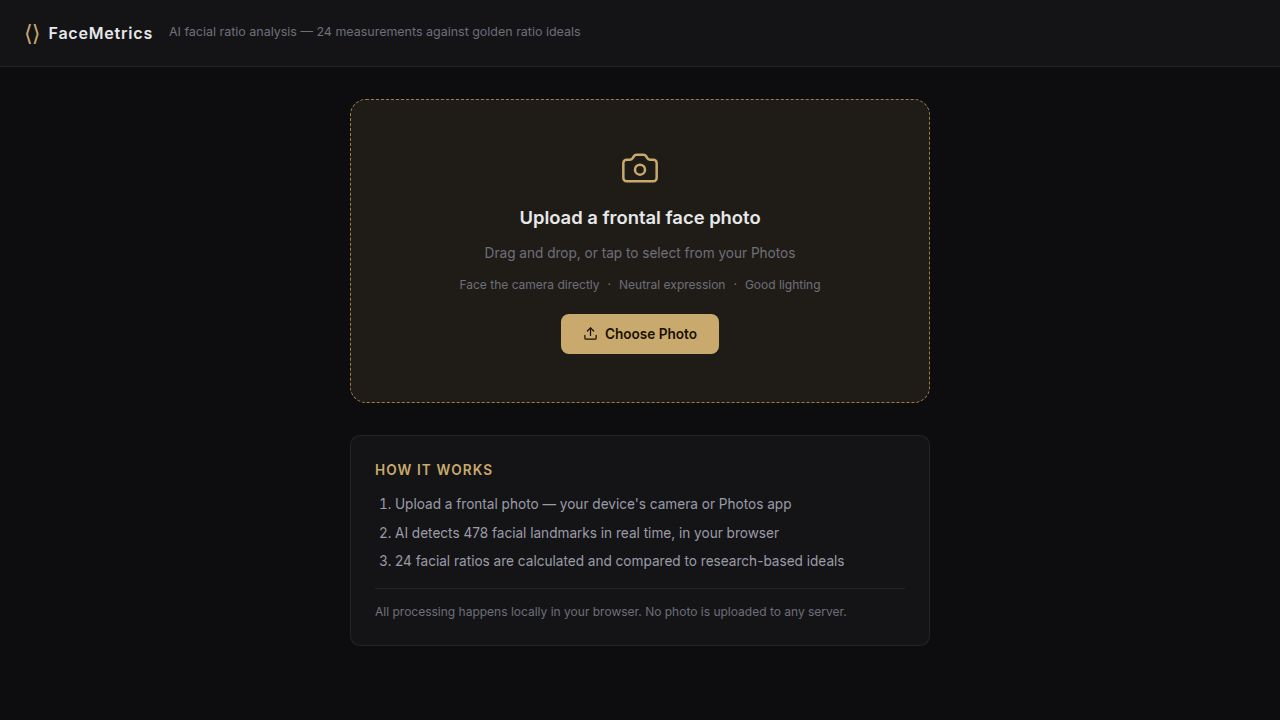
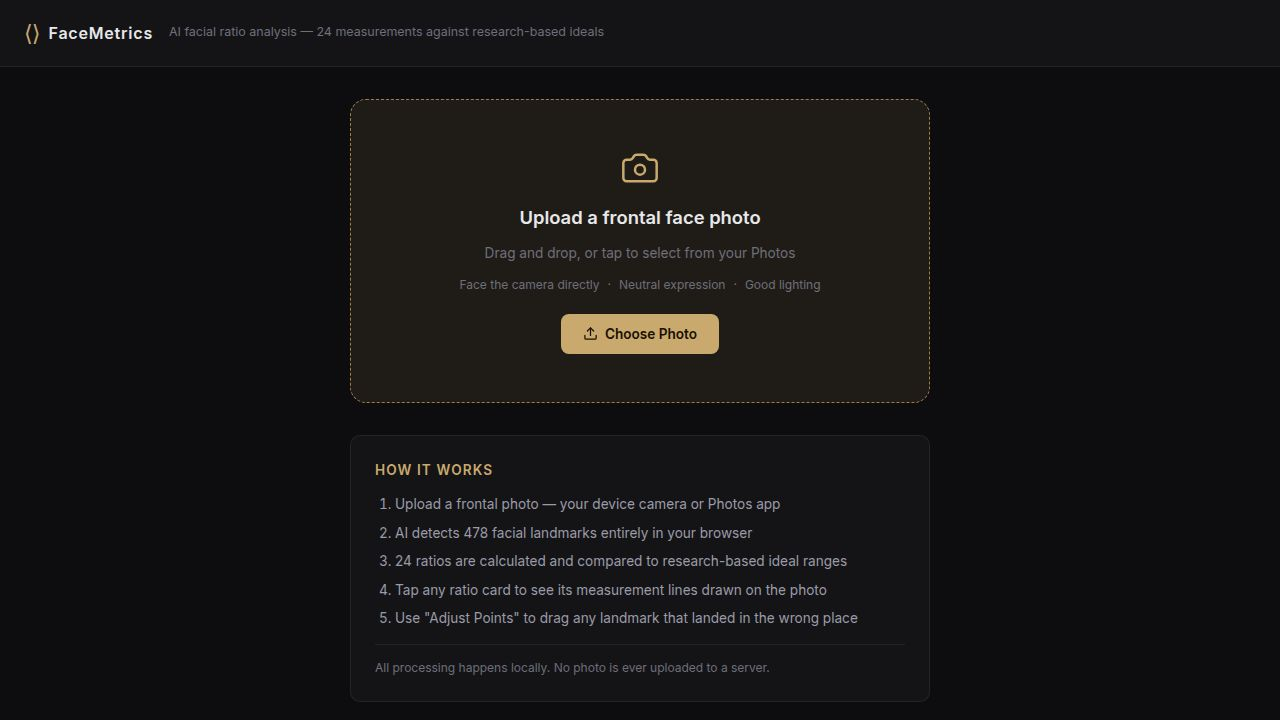
Adjust face measurements to include jaw apex and refine ideal ranges
Adds `jaw_apex` key point and updates JFA and forehead length ideal ranges in `ratios.ts` and `measurementDiagram.ts`.

Replit-Commit-Author: Agent
Replit-Commit-Session-Id: cd740ed2-29c9-4a36-8f7f-19e90068cc69
Replit-Commit-Checkpoint-Type: full_checkpoint
Replit-Commit-Event-Id: 606d166d-a7f3-4d46-8b21-401518e19d16
Replit-Commit-Screenshot-Url: https://storage.googleapis.com/screenshot-production-us-central1/3fed4bd6-ff50-4953-bd9f-591872a6b430/cd740ed2-29c9-4a36-8f7f-19e90068cc69/42fbuJN
Replit-Helium-Checkpoint-Created: true

Changed region(s): [[0.2812, 0.6722, 0.6562, 0.8861], [0.2812, 0.9167, 0.5938, 0.9472], [0.375, 0.0306, 0.4688, 0.0611]]

diff --git a/artifacts/face-ratio/src/lib/ratios.ts b/artifacts/face-ratio/src/lib/ratios.ts
@@ -49,7 +49,7 @@ export function computeRatios(kp: KeyPointPositions): RatioResult[] {
     ear_r, ear_l,
     zygo_r, zygo_l,
     gonia_r, gonia_l,
-    chin,
+    chin, jaw_apex,
     r_eye_lat, r_eye_med, l_eye_lat, l_eye_med,
     r_eye_top, r_eye_bot, l_eye_top, l_eye_bot,
     r_pupil, l_pupil,
@@ -124,13 +124,13 @@ export function computeRatios(kp: KeyPointPositions): RatioResult[] {
   const emeVal    = Math.atan2(vertMouth, halfIPD) * (180 / Math.PI);
   const emeIdeal  = { min: 45, max: 49 };
 
-  // 8. JFA
-  const jfaV1x = gonia_r.x - chin.x;
-  const jfaV1y = gonia_r.y - chin.y;
-  const jfaV2x = gonia_l.x - chin.x;
-  const jfaV2y = gonia_l.y - chin.y;
+  // 8. JFA — angle at jaw_apex (below chin) between lines from each gonion
+  const jfaV1x = gonia_r.x - jaw_apex.x;
+  const jfaV1y = gonia_r.y - jaw_apex.y;
+  const jfaV2x = gonia_l.x - jaw_apex.x;
+  const jfaV2y = gonia_l.y - jaw_apex.y;
   const jfaVal   = angleBetweenVectors(jfaV1x, jfaV1y, jfaV2x, jfaV2y);
-  const jfaIdeal = { min: 85, max: 95 };
+  const jfaIdeal = { min: 88, max: 92 };
 
   // 9. Lower Full Face
   const lffVal   = (nasionToChin / totalFaceHeight) * 100;
@@ -208,9 +208,9 @@ export function computeRatios(kp: KeyPointPositions): RatioResult[] {
   const bitemporalVal   = (temporalWidth / bizygoWidth) * 100;
   const bitemporalIdeal = { min: 85, max: 95 };
 
-  // 24. Forehead Length
+  // 24. Forehead Length — ideal is ~2x as wide as long
   const foreheadLengthVal   = temporalWidth / hairlineToGlabella;
-  const foreheadLengthIdeal = { min: 0.45, max: 0.52 };
+  const foreheadLengthIdeal = { min: 1.85, max: 2.15 };
 
   const raw: Array<{
     key: string; name: string; abbr: string; value: number;

diff --git a/artifacts/face-ratio/src/lib/measurementDiagram.ts b/artifacts/face-ratio/src/lib/measurementDiagram.ts
@@ -127,14 +127,14 @@ export const DIAGRAMS: Record<string, RatioDiagram> = {
 
   jfa: {
     formulaParts: [
-      { text: "Angle at Chin Between Mandible Lines", role: "angle" },
+      { text: "Angle at Jaw Apex Between Mandible Lines", role: "angle" },
     ],
     lines: [
-      { from: "gonia_r", to: "chin", role: "numerator",   label: "R Mandible" },
-      { from: "gonia_l", to: "chin", role: "denominator", label: "L Mandible" },
+      { from: "gonia_r",  to: "jaw_apex", role: "numerator",   label: "R Mandible" },
+      { from: "gonia_l",  to: "jaw_apex", role: "denominator", label: "L Mandible" },
     ],
     angles: [
-      { vertex: "chin", arm1: "gonia_r", arm2: "gonia_l", label: "JFA" },
+      { vertex: "jaw_apex", arm1: "gonia_r", arm2: "gonia_l", label: "JFA" },
     ],
   },
 
@@ -226,12 +226,12 @@ export const DIAGRAMS: Record<string, RatioDiagram> = {
     lines: [
       { from: "subnasale", to: "r_eye_lat", role: "numerator",   label: "IAA arm" },
       { from: "subnasale", to: "l_eye_lat", role: "numerator",   label: "IAA arm" },
-      { from: "gonia_r",   to: "chin",      role: "denominator", label: "JFA arm" },
-      { from: "gonia_l",   to: "chin",      role: "denominator", label: "JFA arm" },
+      { from: "gonia_r",   to: "jaw_apex",  role: "denominator", label: "JFA arm" },
+      { from: "gonia_l",   to: "jaw_apex",  role: "denominator", label: "JFA arm" },
     ],
     angles: [
       { vertex: "subnasale", arm1: "r_eye_lat", arm2: "l_eye_lat", label: "IAA" },
-      { vertex: "chin",      arm1: "gonia_r",   arm2: "gonia_l",   label: "JFA" },
+      { vertex: "jaw_apex",  arm1: "gonia_r",   arm2: "gonia_l",   label: "JFA" },
     ],
   },
 

diff --git a/artifacts/face-ratio/src/lib/keyPoints.ts b/artifacts/face-ratio/src/lib/keyPoints.ts
@@ -10,7 +10,7 @@ export type PointKey =
   | "ear_r" | "ear_l"
   | "zygo_r" | "zygo_l"
   | "gonia_r" | "gonia_l"
-  | "chin"
+  | "chin" | "jaw_apex"
   | "r_eye_lat" | "r_eye_med" | "l_eye_lat" | "l_eye_med"
   | "r_eye_top" | "r_eye_bot" | "l_eye_top" | "l_eye_bot"
   | "r_pupil" | "l_pupil"
@@ -43,6 +43,7 @@ export const KEY_POINT_DEFS: Record<PointKey, PointDef> = {
   gonia_r:       { label: "Gonia R",        group: "face",     color: "#60a5fa", description: "Right jaw angle" },
   gonia_l:       { label: "Gonia L",        group: "face",     color: "#60a5fa", description: "Left jaw angle" },
   chin:          { label: "Chin",           group: "face",     color: "#60a5fa", description: "Bottom of chin (menton)" },
+  jaw_apex:      { label: "Jaw Apex",       group: "face",     color: "#f87171", description: "JFA vertex — drag below chin where jaw lines meet" },
   r_eye_lat:     { label: "R Lat Canthus",  group: "eyes",     color: "#34d399", description: "Right outer eye corner" },
   r_eye_med:     { label: "R Med Canthus",  group: "eyes",     color: "#34d399", description: "Right inner eye corner" },
   l_eye_lat:     { label: "L Lat Canthus",  group: "eyes",     color: "#34d399", description: "Left outer eye corner" },
@@ -104,6 +105,7 @@ export function extractKeyPoints(
     gonia_r:       p(LM.GONIA_R),
     gonia_l:       p(LM.GONIA_L),
     chin:          p(LM.CHIN),
+    jaw_apex:      (() => { const c = p(LM.CHIN); return { x: c.x, y: c.y + h * 0.05 }; })(),
     r_eye_lat:     p(LM.R_EYE_LATERAL),
     r_eye_med:     p(LM.R_EYE_MEDIAL),
     l_eye_lat:     p(LM.L_EYE_LATERAL),